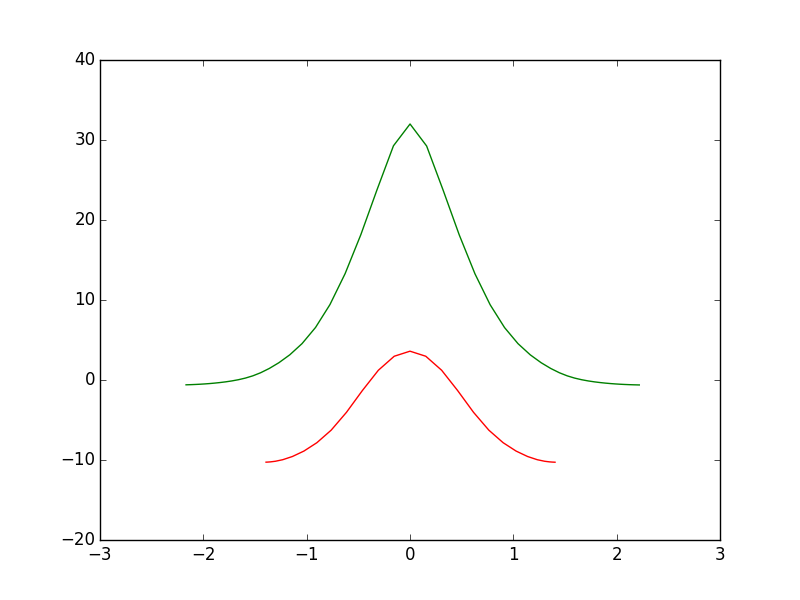
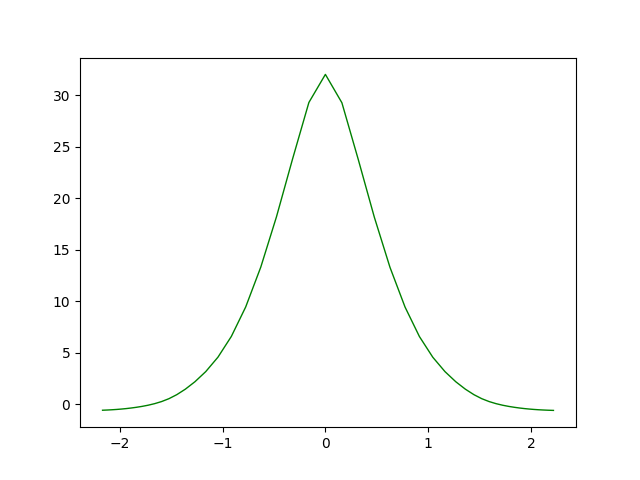
論文にあるSFEのみのグラフ描画実装

diff --git a/makeStrings.py b/makeStrings.py
@@ -53,30 +53,61 @@ class interpData:
             else:
                 alpha, value = map(float,readLine.split())
                 self.valueArray.append(value)
-        print(str(self.fileNameOfValue) + "  " + str(len(self.valueArray)))
+        # print(str(self.fileNameOfValue) + "  " + str(len(self.valueArray)))
 
     def plotValueAlongRC(self,colorName):
         for i in range(len(self.abArray)):
             self.RCArray.append(self.abArray[i] - self.bcArray[i])
         plt.plot(self.RCArray,self.valueArray, linewidth = 1, color = colorName)
 
+class AirData(interpData):
+    def get_potential(self):
+        import potentialOfSN2
+        for i in range(len(self.abArray)):
+            self.valueArray.append(potentialOfSN2.getPotential(self.abArray[i], self.bcArray[i]))
+
+class OnlySolventFreeEnergy(AirData):
+    def readValue(self):
+        self.get_potential()
+        f = open(self.fileNameOfValue, "r")
+        i = 0
+        while True:
+            readLine = f.readline()
+            if readLine == "":
+                break
+            else:
+                alpha, value = map(float, readLine.split())
+                self.valueArray[i] = value - self.valueArray[i]
+                i += 1
 
 
-water = interpData("interpNewData.dat","alongStringWater.dat")
-air = interpData("interpAir.dat","alongStringAir.dat")
 
-water.readValue()
-water.plotValueAlongRC("green")
-air.readValue()
-air.plotValueAlongRC("red")
-plt.savefig("valueAlongRC.png")
-plt.show()
 
-water.plotStringAlongAlpha("green")
-air.plotStringAlongAlpha("red")
-plt.show()
+if __name__ == "__main__":
+    # air = interpData("interpAir.dat","alongStringAir.dat")
+    air = AirData("interpNewData.dat", "alongStringWater.dat")
+    air.get_potential()
+    air.plotValueAlongRC("red")
 
-# print(len(air.aArray))
-# print(len(water.aArray))
+    water = interpData("interpNewData.dat","alongStringWater.dat")
+    water.readValue()
+    water.plotValueAlongRC("green")
 
-# plt.savefig("strings.png")
+    sfe = OnlySolventFreeEnergy("interpNewData.dat", "alongStringWater.dat")
+    sfe.readValue()
+    sfe.plotValueAlongRC("blue")
+    # sfe.plotValueAlongRC("blue")
+    # air.readValue()
+    # air.plotValueAlongRC("red")
+    # plt.savefig("valueAlongRC.png")
+    plt.savefig("eachValue.png")
+    plt.show()
+    #
+    # water.plotStringAlongAlpha("green")
+    # air.plotStringAlongAlpha("red")
+    # plt.show()
+
+    # print(len(air.aArray))
+    # print(len(water.aArray))
+
+    # plt.savefig("strings.png")

diff --git a/potentialOfSN2.py b/potentialOfSN2.py
@@ -1,0 +1,49 @@
+#JCP 86,1354 "Molecular dynamis of a model S N 2 reaction in water"のモデルを使いました
+#モデルは1次元上に並んでいて間の長さのみでポテンシャルが決まる
+import numpy as np
+import scipy as sp
+import math
+
+def getPotential(ab,bc):
+    D = [[234.524674, 234.524674,  64.925971],
+        [220.244820, 220.244820, 284.999867]]
+    beta = [[0.929968, 0.929968, 0.432955],
+        [4.822681, 4.822681, 1.016811]]
+    r_0 =[[1.776382, 1.776382, 2.094857],
+        [1.785014, 1.785014, 2.186060]]
+    rVal = [ab,bc,ab + bc]
+    E = np.zeros((2,3)) #(singlet及びtriplet)*(rab,rbc,rac)
+    Q = np.zeros(3)
+    J = np.zeros(3)
+    for i in [0,1]:
+        for j in [0,1,2]:
+            E[i][j] = D[i][j]*(1.0 - (-1)**(i)* math.exp(-beta[i][j]*(rVal[j] - r_0[i][j])))**2.0 - D[i][j]
+    for i in [0,1,2]:
+        Q[i] = (E[0][i] + E[1][i])/2.0
+        J[i] = (E[0][i] - E[1][i])/2.0
+    THETA = Q[0] + Q[1] + Q[2] - (J[0]*J[0]+ J[1]*J[1] + J[2]*J[2] - J[0]*J[1] - J[1]*J[2] - J[2]*J[0])**0.50 + 234.524671
+    return THETA
+
+#ポテンシャル地形がうまくできているか確認するためのテスト
+def test():
+    startPosition = 1.0
+    endPosition = 4.0
+    dt = 100
+    dtOfLine = (endPosition - startPosition) / dt
+    dtOfRow = dtOfLine
+    f = open("potentialOfAir.dat","w")
+    for i in range(dt + 1):
+        for j in range(dt +1):
+            x = startPosition + dtOfLine * i
+            y = startPosition + dtOfRow * j
+            potential= getPotential(x,y)
+            f.write("{0:2.1f}".format(x))
+            f.write("   ")
+            f.write("{0:2.1f}".format(y))
+            f.write("   ")
+            f.write(str(potential))
+            f.write("\n")
+    f.close()
+
+#test()
+#print("成功")
